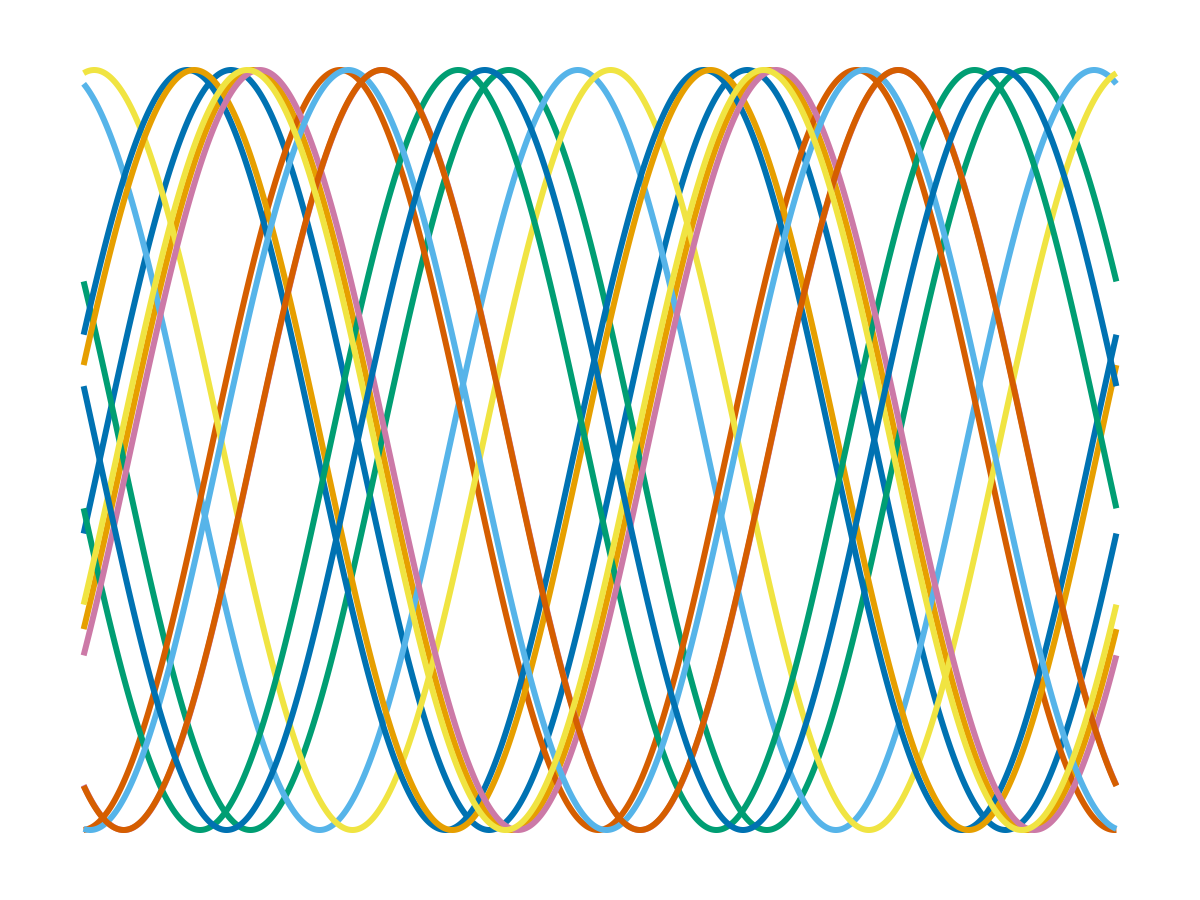
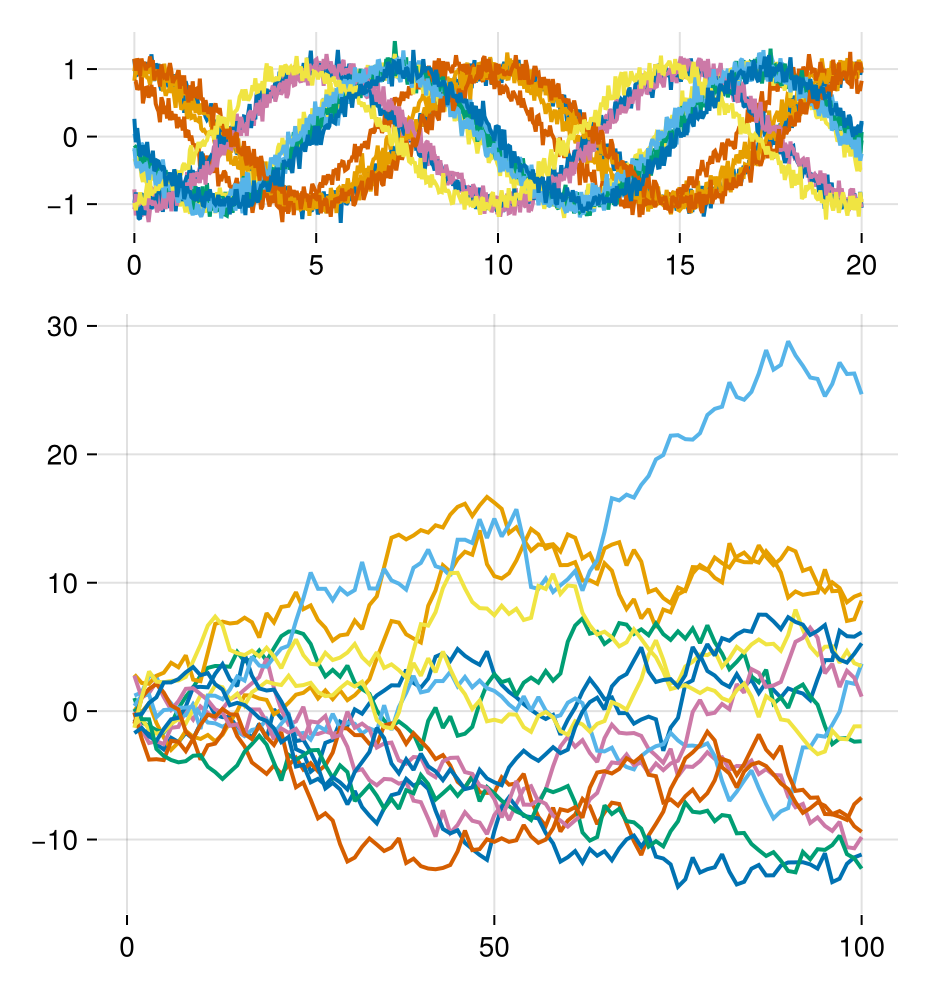
teaching...

diff --git a/_teachings/disp.md b/_teachings/disp.md
@@ -1,0 +1,85 @@
+---
+layout: course
+title: Signal and image processing
+description: Learn how to analyze signals and images using numerical tools.
+instructor: André Ferrari
+year: 2024
+term: 
+location: 
+time: 
+term: 
+course_id: 
+---
+
+
+This course was taught to [MAUCA1](http://mauca.unice.fr) students until 2024.
+
+## Description
+
+The objective of this course is to present the fundamental mathematics and concepts of discrete-time signal and image processing. 
+These topics are presented in the context of signal processing and extended to image processing. 
+A large part of the course will be devoted to computer implementation of signal and image processing systems.
+
+![Example image](/assets/img/teaching/disp_1.png){: width="400"}
+
+
+## Content 
+
+1. Discrete-time signals and systems
+	- Properties of systems
+	- Linear and time invariant (LTI) systems. convolution
+	- Linear constant-coefficients difference equations
+	- Frequency response of a stable LTI
+2. The z-transform and filter design
+	- z-transform properties. properties of the roc
+	- z-transforms and LTI systems
+	- Design of discrete-time iir filters and design of fir filters
+3. The discrete fourier transform
+	- Representation of periodic sequences: the discrete fourier series 
+	- Fourier representation of finite-duration sequences
+	- Properties of the dft, linear convolution using the dft
+	- Computation of the discrete fourier transform and fft algorithms 
+4. Image processing
+	- Convolutions in space domain and fourier domain
+	- Matrix representation of convolution and properties 
+	- Elementary image transforms, edge detection
+	- Image filtering
+5. Introduction to wavelets
+	- Time frequency analysis
+	- Continuous and discrete wavelets transform
+	- Multi-resolution analysis
+
+![Example image](/assets/img/teaching/disp_2.png){: width="400"}
+
+## Practical work
+
+A large part of the course is devoted to 4 practical projects, where the students will code various algorithms and compare theoretical results with simulation results.  
+1. Signal filtering
+2. Fourier analysis and circular convolution
+3. Image processing
+4. Wavelets analysis
+
+Students will have to complete these projects during the course and are welcomed to work in pairs and to submit a single document. The computations will be preferentially carried out in julia or python.
+
+## Course textbooks
+
+![Example image](/assets/img/teaching/disp_3.png){: height="300"}
+![Example image](/assets/img/teaching/disp_4.png){: height="300"}
+![Example image](/assets/img/teaching/disp_5.png){: height="300"}
+
+The course will cover parts of:
+
+> [1] Discrete-Time Signal Processing (3rd Edition) 
+> Alan V. Oppenheim, Ronald W. Schafer, and John R. Buck. 
+> Prentice-Hall Signal Processing Series
+
+> [2] Digital Image Processing, 4th Edition
+> Rafael C. Gonzalez, Richard E. Woods, 
+> Pearson 
+
+> [3] A Wavelet Tour of Signal Processing: The Sparse Way
+> Stéphane Mallat, Academic Press Inc.
+
+- Chapters 1., 2. and 3. of the course:  Chapters 1-6 and 8-9 of [1]
+- Chapter 4. of the course: Chapters 3-4 of [2]
+- Chapter 5. of the course:  parts of [3]

diff --git a/_teachings/BA.md b/_teachings/BA.md
@@ -1,0 +1,64 @@
+---
+layout: course
+title: Bayesian analysis
+description: Learn how to use Bayesian formalism to model and solve a problem.
+instructor: André Ferrari
+year: 2023
+term: 
+location: 
+time: 
+term: 
+course_id: 
+---
+
+*The course will not be taught during 2023--*
+
+## Introduction
+
+The course aims to familiarize the students with the Bayesian analysis.
+The Bayesian paradigm, coupled with efficient simulation algorithms,
+has been proved to be a computationally efficient alternative to
+classical frequentist approaches.
+
+The Bayesian formalism is also recognized as a  natural framework to address inverse problems
+which arise in many observational systems.
+A large part of the course is devoted to the application of Bayesian models
+to image reconstruction in astrophysics. It will particularly focus on choice of the priors
+and the implementation.
+
+
+## Theory
+
+![Example image](/assets/img/teaching/ba_2.png){: width="400"}
+
+A common problem in experimental and observational sciences is to
+extract information from noisy measurements. Bayesian analysis is
+the formalism which allows to merge in the inference: 1. the information
+brought by the measurements, 2. a prior on the solution.
+
+This approach is experiencing an increasing interest since 
+the early 1990's after new simulations methods appeared. Since a decade,
+the Bayesian paradigm coupled with hierarchical models is used to
+solve computationally involving problems where mathematical
+optimization algorithms are replaced by increasingly effective simulations methods.
+
+Besides the power of recent computational Bayesian approaches,
+the Bayesian formalism plays also a central role in the resolution of inverse problems.
+
+Many data processing problems in physics, and in particular in astrophysics, 
+can be formalized as an inverse problem where the measured data is related in a complex way to the properties of the target.
+This includes image deconvolution (e.g. deblurring and denoising), 
+image reconstruction (e.g. in radioastronomy or optical interferometry), image segmentation...
+The resolution of these ill-posed problems require a regularization (or prior) 
+and the Bayesian formalism is proved to be the natural framework to address these problems.
+
+## Applications
+
+![Example image](/assets/img/teaching/ba_1.png){: width="400"}
+
+
+A large part of the course is devoted to practical projects, where the students 
+will code various algorithms and compare theoretical results with simulation results.
+Students will have to complete three projects during the course and are welcomed to 
+work in pairs and to submit a single document. The computations will be 
+preferentially carried out in julia, python or matlab.

diff --git a/_teachings/dsp.md b/_teachings/dsp.md
@@ -1,6 +1,6 @@
 ---
 layout: course
-title: Traitement numérique du signal
+title: Traitement numérique du signal et phénomènes aléatoires
 description: Apprendre à analyser les signaux à l'aide de filtres et de transformées de Fourier.
 instructor: André Ferrari
 year: 2026
@@ -11,20 +11,33 @@ term:
 course_id: 
 ---
 
+![s](/assets/img/teaching/dsp2.png){: width="400"}
+
+## Introduction
+
 Ce cours est destiné aux étudiants de Licence 3 [EEA](https://univ-cotedazur.fr/formation/offre-de-formation/licence-electronique-energie-electrique-automatique-1).
 
-![s](/assets/img/teaching/dsp2.png){: width="500"}
+Ce cours se décompose en deux parties. La première consiste en un cours pratique sur les variables aléatoires. La seconde  présente les fondamentaux du traitement des signaux à temps discret. Ce module constitue un prérequis pour le cours de M1  [Analyse et traitement des signaux aléatoire]({% link _teachings/random-signals.md %}).
 
-## Programme
+# Programme 
 
-Ce cours présente les fondamentaux du traitement des signaux à temps discret.
-Il aborde en particulier :
-- Signaux et systèmes à temps discret, convolution
-- La transformée en z
-- L'échantillonnage des signaux à temps continu
-- L'analyse des systèmes linéaires invariants par transformées
-- Les transformées de Fourier : TF, TFD et FFT
-- Une introduction aux techniques de synthèse de filtres
+*Phéononmènes aléatoires* :
+1. Calcul des probabilités
+2. Variables aléatoires
+3. Espérance et variance
+4. Couples de variables aléatoires
+5. Vecteurs aléatoires et vecteurs gaussiens
+
+*Traitement numérique du signal* :
+1. Signaux et systèmes à temps discret, convolution
+2. La transformée en z
+3. L'échantillonnage des signaux à temps continu
+4. L'analyse des systèmes linéaires invariants dans le temps
+5. Les transformées de Fourier : TF, TFD 
+6. Les convolutions linéaires et circulaires
+7. La FFT
+6. Introduction aux techniques de synthèse de filtres
+
 
 Une large part du cours est consacrée à des projets pratiques, au cours desquels les étudiants implémenteront différents algorithmes et confronteront les résultats théoriques aux résultats de simulation.
 
@@ -36,3 +49,9 @@ Le cours couvre une partie de :
 
 > _Discrete-Time Signal Processing_ (3rd Edition), Prentice-Hall Signal Processing Series.
 > Alan V. Oppenheim, Ronald W. Schafer, and John R. Buck.
+
+## Évaluation
+
+- Contrôle TNS: 40 %
+- Contrôle Phénomènes aléatoires : 40 %
+- TP : 20 %

diff --git a/_teachings/random-signals.md b/_teachings/random-signals.md
@@ -1,6 +1,6 @@
 ---
 layout: course
-title: Random signals
+title: Analyse et traitement des signaux aléatoire
 description: Analyser et filtrer les signaux aléatoires
 instructor: André Ferrari
 year: 2026
@@ -11,12 +11,17 @@ term:
 course_id: 
 ---
 
-Ce cours est destiné aux étudiants du Master 1  [ESTEL](https://univ-cotedazur.fr/formation/offre-de-formation/master-electronique-energie-electrique-automatique). 
-
 ![s](/assets/img/teaching/sinus.png){: width="400"}
 
-## Programme
+## Introduction 
 
+Ce cours est destiné aux étudiants du Master 1  [ESTEL](https://univ-cotedazur.fr/formation/offre-de-formation/master-electronique-energie-electrique-automatique). Ce cours constitue un prérequis du cours [Transmission sur fréquence porteuse]({% link _teachings/transmissions.md %}). CIlintroduit la modélisation des signaux aléatoires, des rappels de probabilités jusqu'à la stationnarité, l'analyse spectrale et le filtrage, et l'illustre par des exemples classiques comme le bruit blanc, les processus autorégressifs et le processus de Poisson.
+
+## Prérequis
+
+Le prérequis de ce cours est le cours de L3 [Traitement numérique du signal et phénomènes aléatoires]({% link _teachings/dsp.md %}).
+
+## Programme
 
 1. Introduction : exemples de signaux aléatoires
    - Générateur sinusoïdal à phase initiale aléatoire

diff --git a/_teachings/transmissions.md b/_teachings/transmissions.md
@@ -1,0 +1,22 @@
+---
+layout: course
+title: Transmission sur fréquence porteuse
+description: Principe des systèmes de transmission sur fréquence porteuse
+instructor: André Ferrari
+year: 2026
+term: 
+location: 
+time: 
+term: 
+course_id: 
+---
+
+## Introduction
+
+Ce cours est destiné aux étudiants du Master 1  [ESTEL](https://univ-cotedazur.fr/formation/offre-de-formation/master-electronique-energie-electrique-automatique). 
+
+Ce cours porte sur les techniques de transmission sur fréquence porteuse. Il présente d'abord les différents principes des modulations, puis s'intéresse aux problèmes pratiques rencontrés en réception. Il traite notamment de la synchronisation de la porteuse, c'est-à-dire de l'estimation et du suivi de sa fréquence et de sa phase, condition indispensable à une démodulation correcte. Il étudie ensuite l'effet du bruit sur le canal de transmission.
+
+## Prérequis
+
+Le prérequis de ce cours est le cours de M1 [Analyse et traitement des signaux aléatoire]({% link _teachings/random-signals.md %}).

diff --git a/_teachings/inverse-problems.md b/_teachings/inverse-problems.md
@@ -11,10 +11,20 @@ term:
 course_id: 
 ---
 
-Ce cours est destiné aux étudiants du Master 2  [ESTEL](https://univ-cotedazur.fr/formation/offre-de-formation/master-electronique-energie-electrique-automatique). 
+![s](/assets/img/teaching/Problemes-Inverses-t.png){: width="600"}
 
 
-![s](/assets/img/teaching/Problemes-Inverses-t.png)
+## Introduction
+
+Ce cours est destiné aux étudiants du Master 2  [ESTEL](https://univ-cotedazur.fr/formation/offre-de-formation/master-electronique-energie-electrique-automatique). Il présente une approche unifiée de la résolution des 
+problèmes inverses en imagerie en s'appuyant sur des rappels de traitement du signal et des images 
+et sur une introduction à l'optimisation convexe.
+
+## Prérequis
+
+Les prérequis de ce cours sont :
+- le cours de M1 [Analyse et traitement des signaux aléatoire]({% link _teachings/random-signals.md %}).
+- le cours de L3 [Traitement numérique du signal et phénomènes aléatoires]({% link _teachings/dsp.md %}).
 
 ## Programme
 
